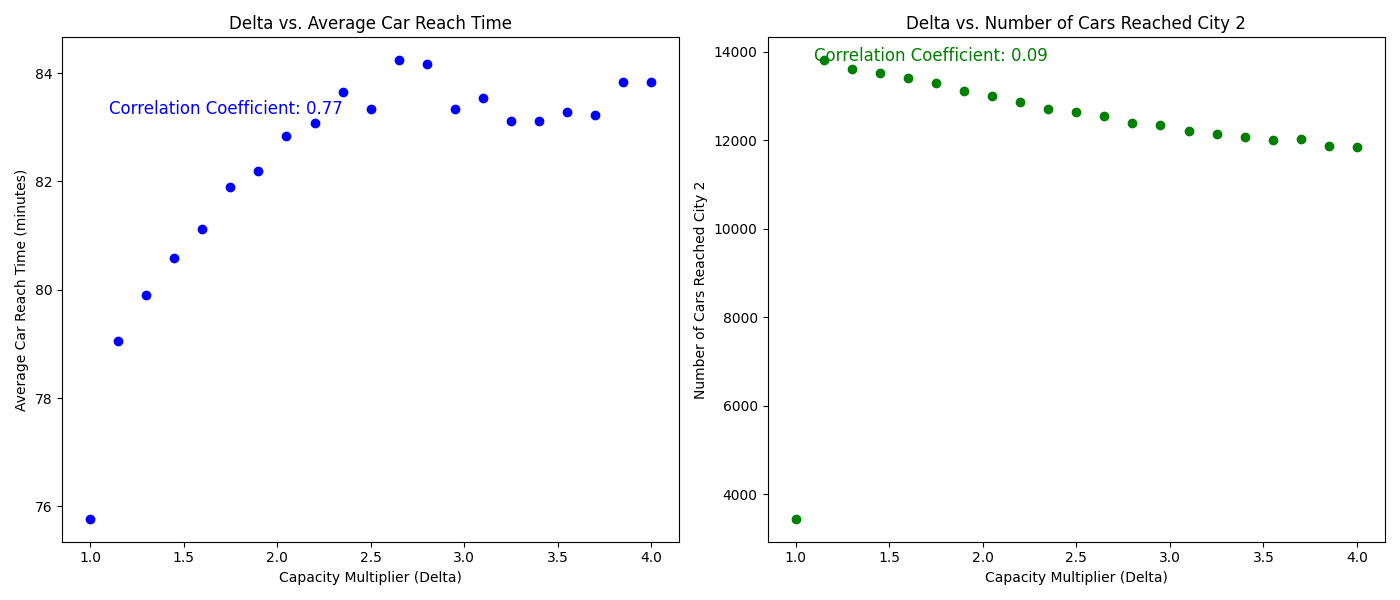
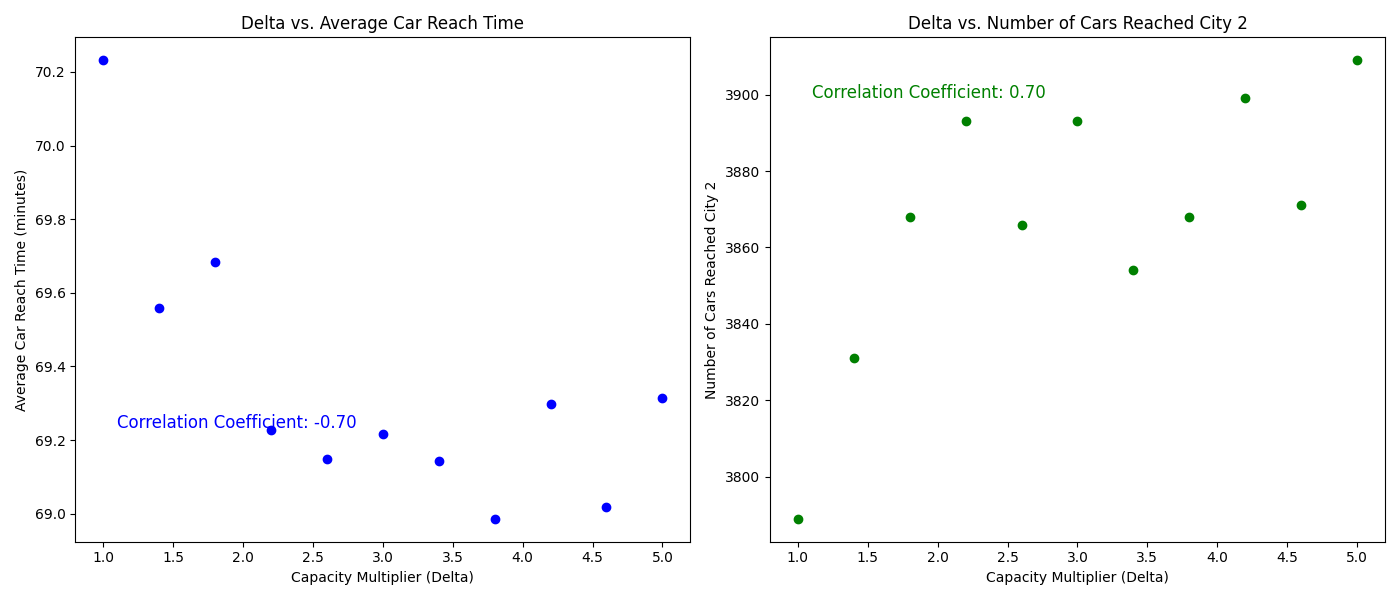
code and figures fixed

diff --git a/traffic.py b/traffic.py
@@ -3,6 +3,7 @@ import matplotlib.pyplot as plt
 from matplotlib.animation import FuncAnimation
 from scipy.interpolate import griddata
 from scipy.stats import pearsonr
+from tqdm import tqdm
 
 # Parameters for BPR function
 alpha = 0.15
@@ -31,11 +32,13 @@ for edge, properties in edges.items():
     tt_0 = (length / speed_limit) * (60 / 1000)  # minutes
     properties["tt_0"] = tt_0
     properties["capacity"] = int(properties["lanes"] * properties["length"] / (l_car + d_spacing))
+    properties["current_capacity"] = int(properties["capacity"])
 
 # Simulation settings
 num_minutes = 240
-car_distribution_mean = 95
-car_distribution_std = 1
+warmup_steps = 120
+car_distribution_mean = 85
+car_distribution_std = 1.5
 
 # Sample the number of cars arriving at City 1 each minute
 np.random.seed(42)
@@ -65,8 +68,12 @@ def compute_edge_probability(outgoing_edges, vehicle_counts, edges, cars):
     # Group cars by their current edge to avoid filtering multiple times
     cars_by_edge = {edge: [] for edge in outgoing_edges}
     for car in cars:
-        if car["location"] in outgoing_edges:
-            cars_by_edge[car["location"]].append(car)
+        if car["location"] in ["A", "B", "C", "D", "E"]:
+            if car["was_on_route"] in outgoing_edges:
+                cars_by_edge[car["was_on_route"]].append(car)
+        elif car["location"] in outgoing_edges:
+            if car["location"] in outgoing_edges:
+                cars_by_edge[car["location"]].append(car)
 
     for edge in outgoing_edges:
         # Get travel time tt_0 for the edge
@@ -177,20 +184,11 @@ def update_plot(t, cars, vehicle_counts, edge_texts, node_texts, timestep_text, 
         capacity = edges[edge]["current_capacity"]
         text.set_text(f"{num_cars}/{capacity}")
 
-    # Update node texts with the number of cars waiting at each node
-    cars_at_node = {node: 0 for node in node_positions}
-    for car in cars:
-        if car["location"] in ["City 1", "A", "B", "C", "D", "E", "City 2"]:
-            cars_at_node[car["location"]] += 1
-
-    for node, text in node_texts.items():
-        text.set_text(f"Waiting: {cars_at_node[node]}")
-
     # Update the timestep text
     timestep_text.set_text(f"Timestep: {t}/{num_minutes}")
 
 # Simulation and visualization combined
-def simulate_and_visualize(cars, edges, num_minutes, warmup_steps=120, most_congested_edge=None, capacity_multiplier=1.0, animate=False):
+def simulate_and_visualize(cars, edges, num_minutes, warmup_steps=warmup_steps, most_congested_edge=None, track_most_congested=True, capacity_multiplier=1.0, animate=False):
     fig, ax, edge_texts, node_texts, timestep_text = initialize_plot()
 
     # Initialize vehicle counts on each edge
@@ -200,21 +198,24 @@ def simulate_and_visualize(cars, edges, num_minutes, warmup_steps=120, most_cong
     car_reach_times = []
 
     # Track the congestion of each edge
-    if most_congested_edge is None:
+    if track_most_congested:
         congestion_data = {edge: [] for edge in edges}
-        for edge in edges:
-            edges[edge]["current_capacity"] = edges[edge]["capacity"]
-    else:
+
+    # Track the congestion of each edge
+    if most_congested_edge is not None:
         edges[most_congested_edge]["current_capacity"] = int(edges[most_congested_edge]["capacity"] * capacity_multiplier)
 
     # Function to update the plot at each timestep
     def update(t):
         for car in cars:
+            if car["location"] == "City 2":
+                cars.remove(car)
+                continue
             # Check if the car should start yet
             if car["start_time"] == t:
                 car["location"] = "City 1"
             # Skip cars that haven't started yet or have already finished
-            elif t < car["start_time"] or car["location"] == "City 2":
+            elif t < car["start_time"]:
                 continue
 
             # Check if the car has finished its route
@@ -229,7 +230,6 @@ def simulate_and_visualize(cars, edges, num_minutes, warmup_steps=120, most_cong
                     vehicle_counts[car["was_on_route"]] -= 1
                     if car["start_time"] > warmup_steps:
                         car_reach_times.append(car["arrived_at_node"])
-                continue
 
             # Choose the next edge if the car is at a node
             if car["location"] in ["City 1", "A", "B", "C", "D", "E"]:
@@ -255,7 +255,7 @@ def simulate_and_visualize(cars, edges, num_minutes, warmup_steps=120, most_cong
                     vehicle_counts[car["was_on_route"]] -= 1
 
             # Record congestion level
-            if most_congested_edge is None:
+            if track_most_congested:
                 # If warmup period is over, record congestion data
                 if t > warmup_steps:
                     for edge in edges:
@@ -269,21 +269,17 @@ def simulate_and_visualize(cars, edges, num_minutes, warmup_steps=120, most_cong
         anim = FuncAnimation(fig, update, frames=range(num_minutes), repeat=False, interval=100)
         plt.show()
     else:
-        # Run the simulation without animation
-        for t in range(num_minutes):
+        # Run the simulation without animation using tqdm for a progress bar
+        for t in tqdm(range(num_minutes), desc=f"Simulating"):
             update(t)
 
     # Calculate average congestion per edge
-    if most_congested_edge is None:
+    if track_most_congested:
         avg_congestion = {edge: np.mean(congestion_data[edge]) for edge in edges}
     else:
         avg_congestion = None
 
     return car_reach_times, avg_congestion
-
-def reset_vehicle_counts(edges):
-    for edge in edges:
-        edges[edge]["current_capacity"] = edges[edge]["capacity"]  # Reset to original capacity
 
 def reset_car_states(cars):
     for car in cars:
@@ -293,14 +289,14 @@ def reset_car_states(cars):
         car["was_on_route"] = ""
 
 # Run the function multiple times with different capacity values
-def simulate_and_compare(cars, edges, num_minutes, deltas=[1.15, 1.3, 1.45, 1.6, 1.75, 1.9, 2.05, 2.2, 2.35, 2.5, 2.65, 2.8, 2.95, 3.1, 3.25, 3.4, 3.55, 3.7, 3.85, 4.0]):
+def simulate_and_compare(cars, edges, num_minutes, deltas=[1.4, 1.8, 2.2, 2.6, 3.0, 3.4, 3.8, 4.2, 4.6, 5.0]):
     # Ask the user if it wants the traffic simulation to be animated
     animate = input("Do you want to animate the traffic simulation in real-time? You will have to close the plots for the code to continue if a full simulation is done. (y/n): ").lower() == "y"
 
     # Initial run to find the most congested edge
     print(f"Running simulation with capacity multiplier: 1.0")
 
-    car_reach_times, avg_congestion = simulate_and_visualize(cars, edges, num_minutes, warmup_steps=120, animate=animate)
+    car_reach_times, avg_congestion = simulate_and_visualize(cars.copy(), edges.copy(), num_minutes, warmup_steps=warmup_steps, animate=animate)
     most_congested_edge = max(avg_congestion, key=avg_congestion.get)
     print(f"Most congested edge: {most_congested_edge}")
 
@@ -309,11 +305,11 @@ def simulate_and_compare(cars, edges, num_minutes, deltas=[1.15, 1.3, 1.45, 1.6,
     # Run the simulation multiple times with different capacity multipliers
     for delta in deltas:
         # Reset vehicle counts and car states before running the simulation
-        reset_vehicle_counts(edges)
         reset_car_states(cars)
 
         print(f"Running simulation with capacity multiplier: {delta}")
-        car_reach_times, _ = simulate_and_visualize(cars, edges, num_minutes, most_congested_edge=most_congested_edge, capacity_multiplier=delta, warmup_steps=10, animate=animate)
+        car_reach_times, avg_congestion = simulate_and_visualize(cars.copy(), edges.copy(), num_minutes, most_congested_edge=most_congested_edge, capacity_multiplier=delta, warmup_steps=warmup_steps, animate=animate)
+        print(f"Most congested edge: {max(avg_congestion, key=avg_congestion.get)}")
         all_car_reach_times.append((delta, car_reach_times))
         print(f"Simulation with capacity multiplier {delta} completed.")
 
